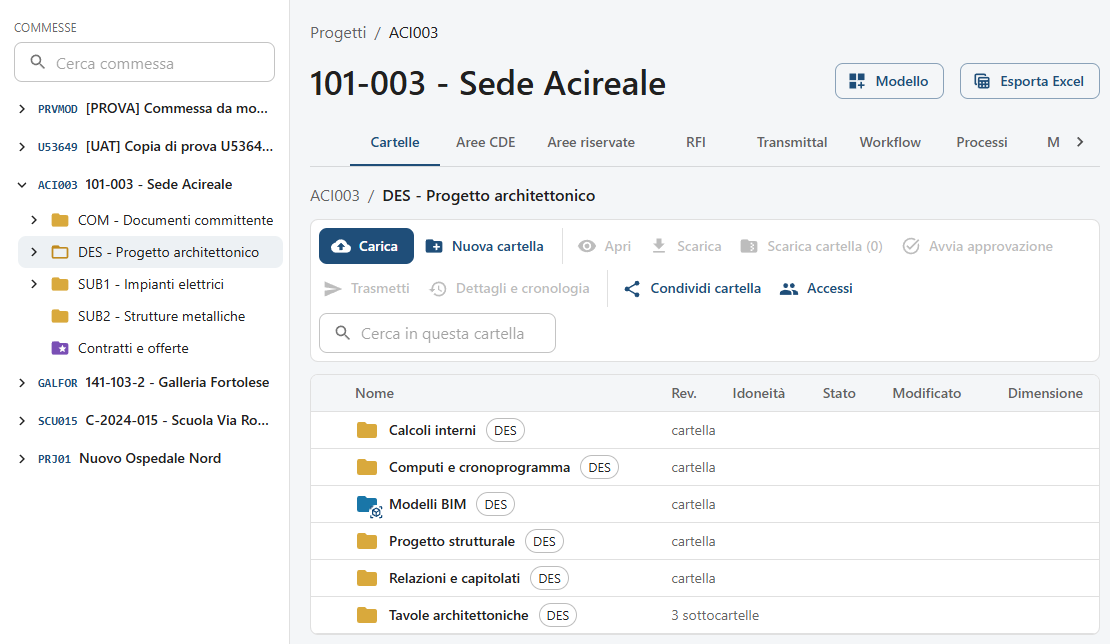
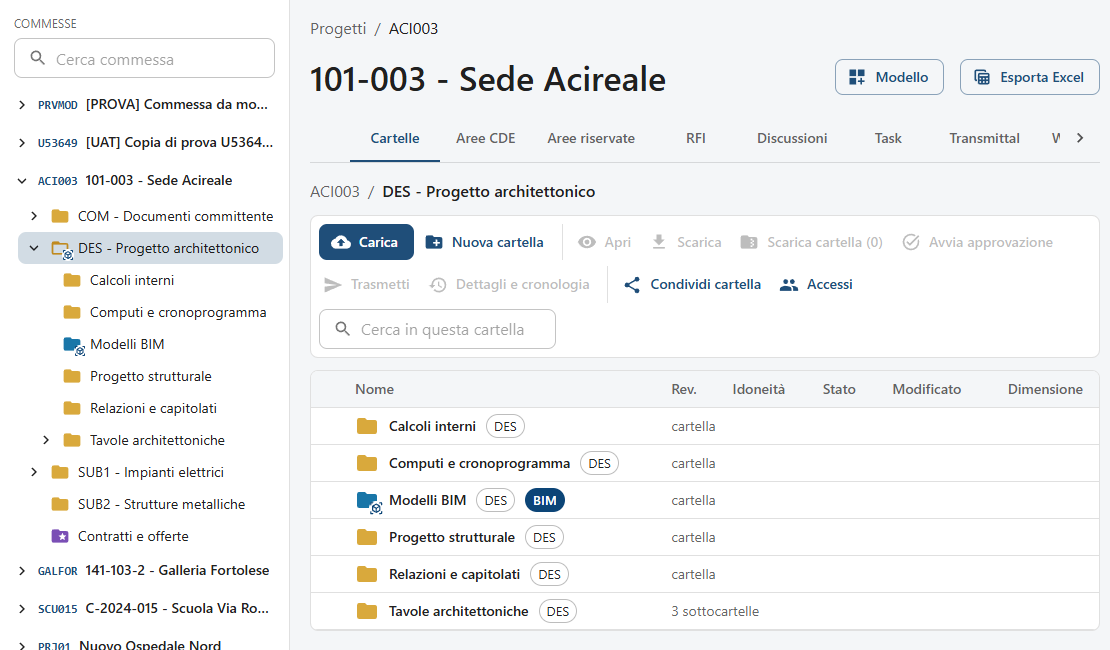
docs(skytower): guida, i due segni delle cartelle BIM e i formati .glb/.gltf
Il paragrafo «Cartelle con modelli BIM» di docs/guida/02-commesse-e-cartelle.md
spiega ora la cartella blu (modelli lì dentro, con etichetta BIM nell'elenco) e
quella gialla con il cubo (modelli in una sottocartella), aggiunge .glb e .gltf
ai formati contati e precisa che il segno riguarda solo le cartelle visibili a
chi guarda. Immagine img/02-cartella-bim.png rifatta sulla commessa demo 101-003.

diff --git a/skytower/docs/guida/02-commesse-e-cartelle.md b/skytower/docs/guida/02-commesse-e-cartelle.md
@@ -79,16 +79,23 @@ fa vedere la nuova cartella a chi vede già quella superiore; toglila per una so
 
 ### Cartelle con modelli BIM
 
-Dal 26/11/2026 le cartelle che contengono modelli BIM si riconoscono subito: l'icona è **blu con un
-cubo**, invece della cartella gialla, sia nell'albero delle commesse a sinistra sia nell'elenco della
-cartella. Passandoci sopra compare «Contiene modelli BIM».
+Dal 26/11/2026 le cartelle che contengono modelli BIM si riconoscono subito, in ogni commessa, sia
+nell'albero a sinistra sia nell'elenco della cartella:
+
+- **cartella blu con il cubo**: i modelli stanno proprio lì dentro. Nell'elenco ha anche l'etichetta
+  **BIM** accanto al nome. Passandoci sopra compare «Contiene modelli BIM o 3D»;
+- **cartella gialla con il cubo**: i modelli stanno in una sua sottocartella, a qualsiasi profondità.
+  Serve a capire dove scendere anche con l'albero chiuso («Modelli BIM o 3D nelle sottocartelle»).
 
 ![Cartella con modelli BIM](img/02-cartella-bim.png)
 
-- conta come modello BIM un file `.ifc`, `.ifczip`, `.ifcxml`, `.rvt`, `.rfa`, `.nwd`, `.nwc` o `.nwf`;
-- l'icona è sulla cartella che contiene il modello, non su quelle che la contengono;
-- i documenti archiviati non contano: archiviato l'ultimo modello, la cartella torna gialla;
-- un'area riservata tiene la sua icona (il lucchetto o la cartella viola).
+- conta come modello un file `.ifc`, `.ifczip`, `.ifcxml`, `.rvt`, `.rfa`, `.nwd`, `.nwc`, `.nwf` e i
+  modelli 3D `.glb` e `.gltf` (quelli esportati da Blender);
+- i documenti archiviati non contano: archiviato l'ultimo modello, la cartella torna gialla e il cubo
+  sparisce anche dalle cartelle sopra;
+- un'area riservata tiene la sua icona (il lucchetto o la cartella viola);
+- il segno riguarda solo le cartelle che puoi vedere: una sottocartella a cui non hai accesso non fa
+  comparire il cubo su quelle sopra.
 
 ## 2.5 Condividere una cartella e vedere chi vi accede
 
